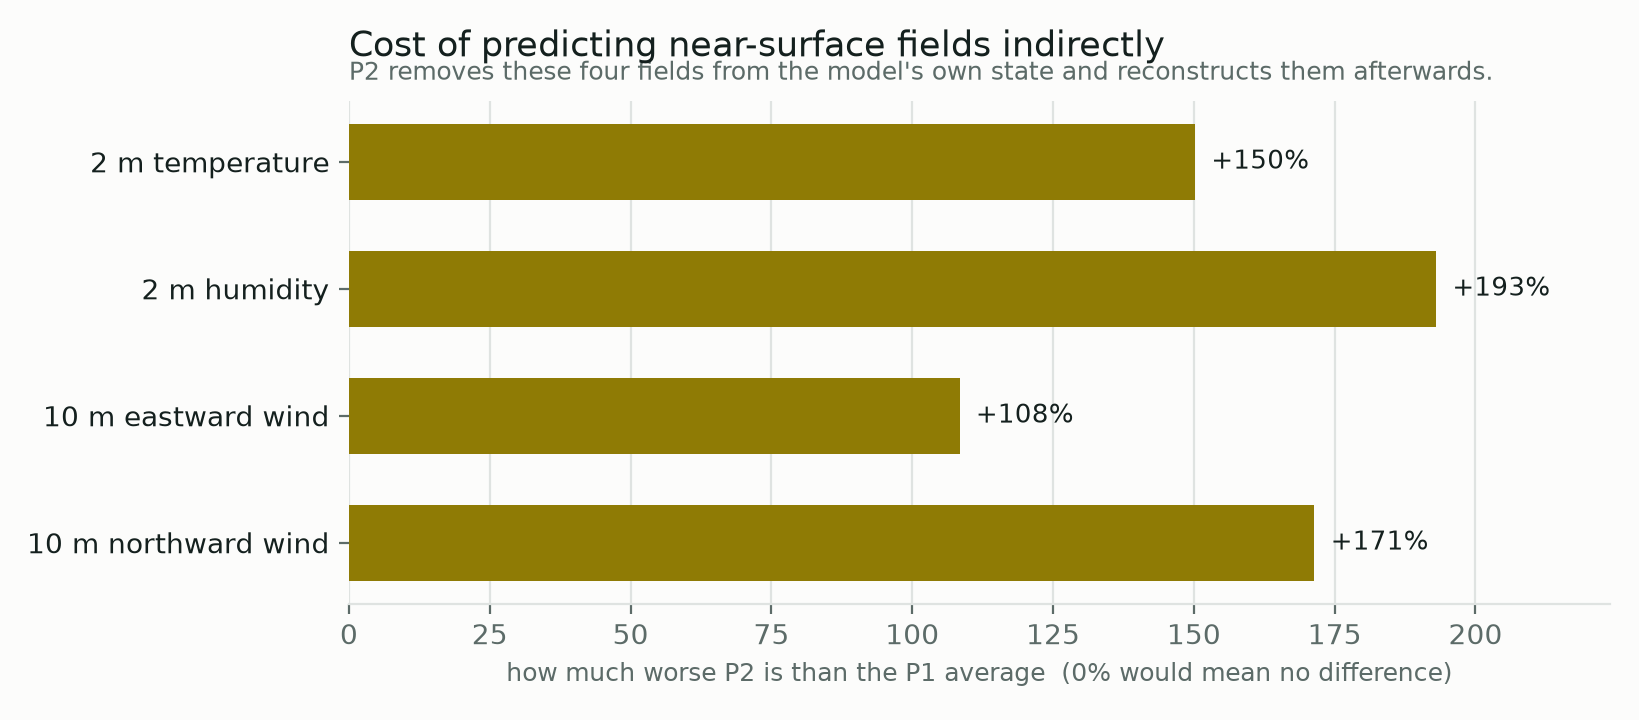
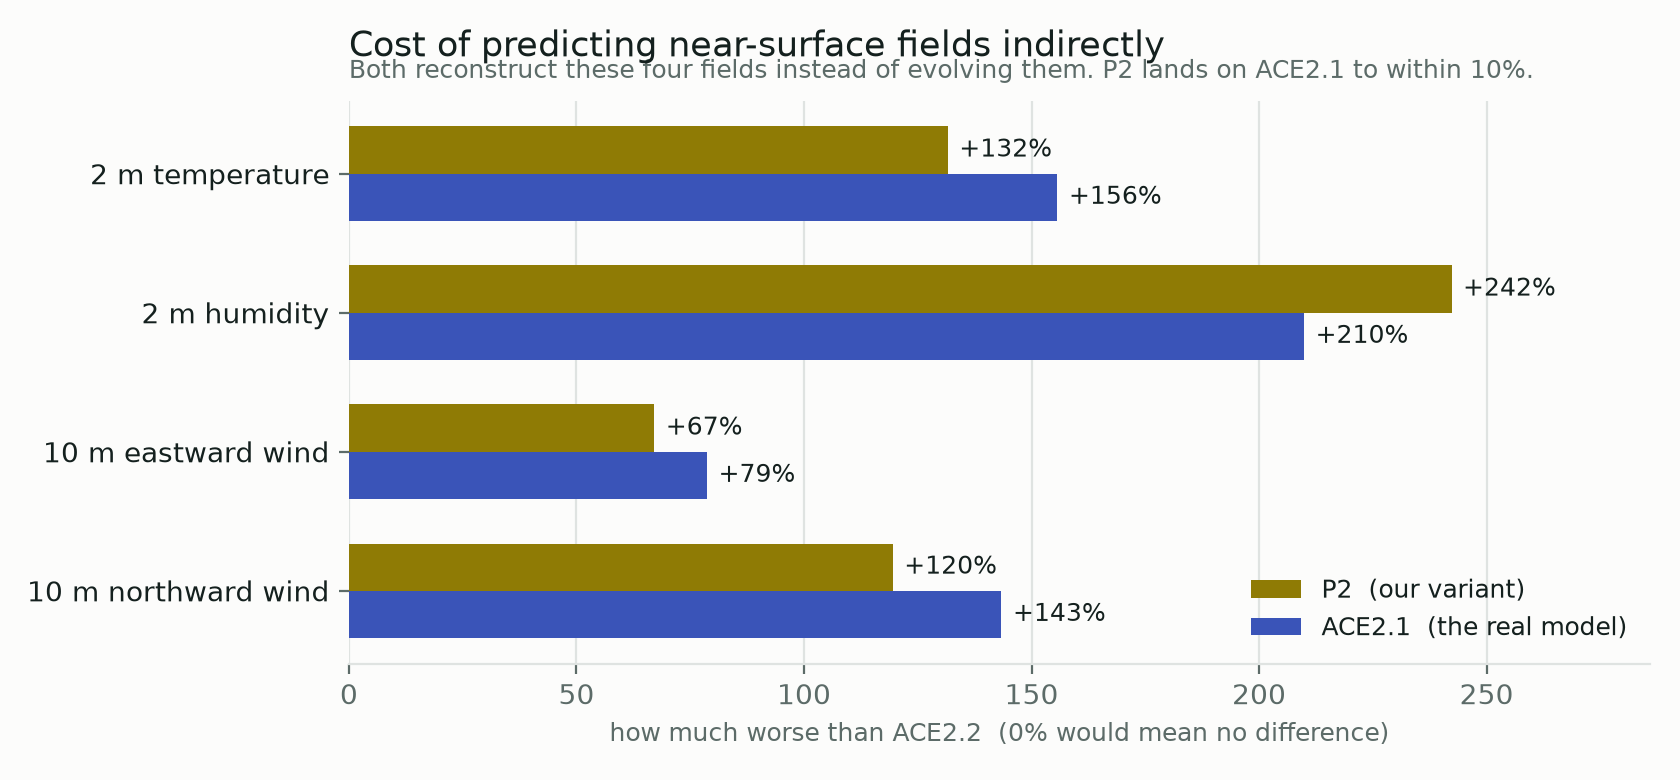
Add the ACE2.1 plev-FT backfill to the findings report
Score the translated ACE2.1 plev-FT checkpoint on the 36-year in-sample
rollout (long36-ace21-plevft, 35 fields) and fold it into the report. It
supersedes the long36-ace21-rs3 entry, which it reproduces exactly on all
28 shared fields.

Extend the trend check to surface_temperature, TMP850, h500 and PRATEsfc,
pulled from the runs' wandb annual artifacts and cached alongside the
existing TMP2m series.

Rescore the P2 comparison against ACE2.2 rather than the P1 seed mean, and
redraw fig3 with ACE2.1 alongside P2.

diff --git a/evaluations/make_findings_figures.py b/evaluations/make_findings_figures.py
@@ -76,21 +76,29 @@ ratio_chart([0.982, 0.956, 0.980, 1.013, 0.953, 0.954], (0.953, 1.013),
             "Error of the annual-mean series, which carries the trend. 25 fields.",
             "median per-field error ratio  (1.0 = same as P1 average)")
 
-# fig 3 -- the near-surface penalty from demoting those fields to a diagnostic decoder
+# fig 3 -- the near-surface penalty, measured two independent ways against ACE2.2:
+# P2 (built to reproduce ACE2.1's treatment) and ACE2.1 itself, from long36-ace21-plevft.
 fields = ["2 m temperature", "2 m humidity", "10 m eastward wind", "10 m northward wind"]
-pct = [150.2, 193.0, 108.4, 171.4]
-fig, ax = plt.subplots(figsize=(8.2, 3.6))
+p2_pct = [131.6, 242.3, 67.1, 119.5]
+a21_pct = [155.7, 209.9, 78.7, 143.4]
+fig, ax = plt.subplots(figsize=(8.4, 3.9))
 y = np.arange(len(fields))[::-1]
-bars = ax.barh(y, pct, height=0.6, color=OLIVE)
-for b in bars: b.set_linewidth(0)
+h = 0.34
+b1 = ax.barh(y + h/2, p2_pct, height=h, color=OLIVE, label="P2  (our variant)")
+b2 = ax.barh(y - h/2, a21_pct, height=h, color=INDIGO, label="ACE2.1  (the real model)")
+for bars in (b1, b2):
+    for b in bars: b.set_linewidth(0)
 ax.set_yticks(y); ax.set_yticklabels(fields, fontsize=10, color=INK)
-ax.set_xlim(0, max(pct) * 1.16)
-for b, v in zip(bars, pct):
-    ax.text(v + max(pct)*0.015, b.get_y()+b.get_height()/2, f"+{v:.0f}%", va="center",
-            fontsize=9.5, color=INK)
-style(ax, "how much worse P2 is than the P1 average  (0% would mean no difference)",
+ax.set_xlim(0, max(max(p2_pct), max(a21_pct)) * 1.18)
+for bars, vals in ((b1, p2_pct), (b2, a21_pct)):
+    for b, v in zip(bars, vals):
+        ax.text(v + max(a21_pct)*0.012, b.get_y()+b.get_height()/2, f"+{v:.0f}%",
+                va="center", fontsize=9, color=INK)
+ax.legend(loc="lower right", frameon=False, fontsize=9)
+style(ax, "how much worse than ACE2.2  (0% would mean no difference)",
       "Cost of predicting near-surface fields indirectly",
-      "P2 removes these four fields from the model's own state and reconstructs them afterwards.")
+      "Both reconstruct these four fields instead of evolving them. P2 lands on ACE2.1 "
+      "to within 10%.")
 fig.tight_layout(); fig.savefig(OUT/"fig3-near-surface-penalty.png", dpi=200); plt.close(fig)
 
 # fig 4 -- seed spread, the two recipes side by side (a null result)

diff --git a/evaluations/ACE2.2-vs-ACE2.1-findings.md b/evaluations/ACE2.2-vs-ACE2.1-findings.md
@@ -37,12 +37,19 @@ recipe, and it turns out to matter here.
 
 **The four models.**
 
-| name | what it is |
-|---|---|
-| **ACE2.1** | the older generation, already submitted to the AIMIP intercomparison |
-| **ACE2.2** | the newer generation; better overall, but differs from ACE2.1 in ~7 ways |
-| **P1** | ACE2.2's recipe with ACE2.1's choice of training years. Three seeds. |
-| **P2** | P1, but with near-surface fields made diagnostic instead of prognostic |
+| name | what it is | changes vs ACE2.2 |
+|---|---|---|
+| **ACE2.1** | the older generation, already submitted to the AIMIP intercomparison | ~7 |
+| **ACE2.2** | the newer generation; better overall, and the model we would otherwise submit. One seed. | — |
+| **P1** | ACE2.2's recipe with ACE2.1's choice of training years. Three seeds. | 1: the training years |
+| **P2** | P1, *plus* near-surface fields made diagnostic instead of prognostic. One seed. | 2: the training years **and** the near-surface treatment |
+
+**The variants form a chain, not a fan:** ACE2.2 -> P1 (change the training years) -> P2 (also
+deprognostify the near-surface fields). P2 was built on P1 rather than directly on ACE2.2 so
+that it would have a three-seed spread to be judged against, since ACE2.2 has only one seed.
+The consequence is that P1, not ACE2.2, is the only clean control for the near-surface
+question -- comparing P2 to ACE2.2 conflates the two changes. Everywhere else in this report
+ACE2.2 is the reference, since it is the model the variants were trying to improve on.
 
 ---
 
@@ -95,9 +102,15 @@ were a real handicap, P1 would sit clearly worse than ACE2.2. It does not — AC
 (0.879–1.088). The same holds for annual-mean error, and for surface temperature, 2 m
 temperature and El Niño response taken individually.
 
-**So we can adopt ACE2.1's training split.** The experiment gets simpler to describe with no
-measured cost. What we *cannot* say is that the span provably has no effect — with three
-seeds the measurement cannot resolve anything smaller than the seed spread.
+**On these two measures we can adopt ACE2.1's training split** — the experiment gets simpler
+to describe at no measured cost in mean climate or annual error. What we *cannot* say is that
+the span provably has no effect: with three seeds the measurement cannot resolve anything
+smaller than the seed spread.
+
+**And the trend is a real exception**, treated in its own section below. There P1's average
+falls between the two generations rather than matching ACE2.2, in the direction predicted for
+a shorter, cooler training period. That is why this conclusion is scoped to the two error
+measures rather than stated as a general verdict on the split.
 
 ### The newer generation is better in-sample, as expected
 
@@ -146,11 +159,38 @@ in-sample counterpart of the forced-response gap seen in the intercomparison, an
 consistent with the leading explanation for it: ACE2.2 has an explicit global-mean pathway
 that ACE2.1 lacks.
 
-**But the trend is strongly seed-dependent.** P1's three seeds span 32% to 46%, a range wider
-than the gap between the two generations, and ACE2.1's 36% sits inside it. So "ACE2.2 beats
-ACE2.1 on trend" is supported, while any comparison between P1 and ACE2.1 on this measure is
-not — one seed of P1 is worse than ACE2.1 and two are better. A trend number from a single
-model should not be read as a property of its recipe.
+**P1 does not inherit all of that advantage.** Averaging its three seeds — 46%, 45% and 32%
+— gives 41%, which falls between ACE2.1's 36% and ACE2.2's 51%. Since the training span is
+the *only* difference between P1 and ACE2.2, the span is the natural explanation, and the
+direction is the one predicted for a shorter, cooler period. Taking the two generations'
+15-point difference as the whole effect, P1 retains about a third of it: (41 − 36) / (51 − 36).
+
+**That fraction is a point estimate and should be read as one.** P1's three seeds span 32% to
+46% — a range wider than the 15-point gap being divided — so the same arithmetic gives two
+thirds if the weakest seed is excluded. Both endpoints are single seeds with no spread of
+their own. The ordering is the finding; the fraction is an illustration of its size, not a
+measurement of it, and resolving it would take several more seeds rather than one.
+
+**The same ordering appears in four other fields**, so it is not an artifact of 2 m
+temperature alone. Repeating the calculation on each field's annual series:
+
+| field | P1 three-seed mean | ACE2.2 | z |
+|---|---|---|---|
+| 2 m temperature | 41% | 51% | +1.28 |
+| surface temperature | 54% | 61% | +1.61 |
+| 850 hPa temperature | 44% | 55% | +1.15 |
+| 500 hPa height | 37% | 44% | +1.01 |
+| precipitation rate | 126% | 140% | +2.02 |
+
+**This is suggestive, not established, and the field count is misleading.** Every P1 seed
+falls below ACE2.2 in every field, which is fifteen comparisons -- but they are not fifteen
+tests. A model's fields are strongly correlated with one another, so a single model that
+draws well scores well on all of them at once; the near-surface section below shows exactly
+that happening in the other direction. The independent dimension is the seed, and there
+ACE2.2 is one draw against P1's three. Under the null that all four are exchangeable, the
+probability that ACE2.2 is the largest is 1/4, and five correlated fields do not compound it.
+ACE2.2's configuration has one seed, so the comparison has no spread on that side at all.
+
 
 **The offsets are small here**, between −0.034 and +0.059 K, where the production simulations
 of the same two generations run +0.11 K and +0.19 K warm. That difference is the
@@ -167,6 +207,20 @@ P2 reconstructs the four near-surface fields afterwards instead of evolving them
 36-year rollout they get 2.1–2.9× worse — far outside anything the seeds produce, so this is
 a real effect and the clearest result in the campaign.
 
+**ACE2.1 itself confirms it independently.** P2 was built to imitate ACE2.1's treatment of
+these fields, and it lands on ACE2.1's actual numbers to within 10%:
+
+| relative to ACE2.2 | 2 m temperature | 2 m humidity | 10 m eastward | 10 m northward |
+|---|---|---|---|---|
+| P2 (our variant) | +132% | +242% | +67% | +120% |
+| ACE2.1 (the real model) | +156% | +210% | +79% | +143% |
+| P1 (prognostic, ACE2.1's span) | -7% | +17% | -20% | -19% |
+
+So the penalty is not an artifact of how P2 was implemented; it is the real generational
+difference, measured two ways that share no code path. The third row is the control: P1 keeps
+these fields prognostic while adopting ACE2.1's training span, and matches or beats ACE2.2 on
+three of the four. The treatment is what matters, not the span.
+
 The penalty grows with rollout length: on a five-year window 2 m temperature was 1.4× worse,
 over 36 years it is 2.5×. That fits the mechanism, since a reconstruction network reading a
 frozen state has no boundary-layer memory to carry forward, so the deficit compounds.
@@ -181,6 +235,32 @@ evolving the field directly.
 The cost is not confined to those four fields. Pressure levels near the ground, which the
 intercomparison also scores, are about 9% worse in P2, while levels above 250 hPa are
 unaffected. The deficit is graded by height.
+
+**P2 is not better on the fields it did not change.** Removing four fields from the model's
+state might have freed capacity for everything else, which would argue for some gentler
+version of the change. Scored against ACE2.2 -- the model both variants modify -- P2 does look
+better on the 30 fields it left alone:
+
+| relative to ACE2.2 | 30 unchanged fields | better | near-surface |
+|---|---|---|---|
+| P1 seed 0 | 1.029 | 12/30 | 0.90x |
+| P1 seed 1 | 0.835 | 22/30 | 0.74x |
+| P1 seed 2 | 1.057 | 13/30 | 1.00x |
+| P2 | 0.887 | 20/30 | 2.26x |
+
+Two things dissolve it. P1 seed 1 reaches 0.835 with near-surface fields fully prognostic, so
+scoring well across nearly every field is a whole-model property the seed alone produces;
+with P2 at one seed its 20-of-30 count is one draw, not 20 tests, and against a seed spread of
+0.121 it sits at z = -0.72. And the surface energy fluxes, where a mechanism would plausibly
+live since the turbulent fluxes read 2 m temperature, humidity and the 10 m winds directly,
+do not support one either: P2 beats ACE2.2 on only 4 of 8, and its apparent flux advantage
+appears only against P1, which is itself worse than ACE2.2 there. P2 was recovering something
+the split change cost, not improving on the model it started from.
+
+The comparison in the figure above uses P1 rather than ACE2.2 as its reference, because P2
+differs from ACE2.2 in two ways -- the training span and the near-surface treatment -- and
+only P1 isolates the second.
+
 
 ### The top of the model drifts, and it is a seed lottery
 
@@ -232,31 +312,42 @@ artifact, not a property of the models.
 
 ## What we decided
 
-**P1 is the configuration to submit.** It adopts ACE2.1's training span, which simplifies the
-description at no measured cost, and keeps near-surface fields prognostic, which the
-measurements show is load-bearing.
+**Near-surface fields stay prognostic.** This is the campaign's one decisive result, and it
+holds whatever else is chosen.
+
+**The training span is unresolved, and P1 is no longer the presumed submission.** P1 adopts
+ACE2.1's span, which costs nothing on mean climate or annual error; but on reproduced
+in-sample trend every P1 seed falls below ACE2.2, at p = 1/4 under exchangeability. That is
+too weak to act on and too consistent to ignore, and it bears on E2, which the intercomparison
+scores. The blocking gap is that ACE2.2 has a single seed, so its 51% may itself be a high
+draw, and nothing in this round measures that.
 
 **P2 is not adopted.** Its near-surface penalty is disqualifying for an intercomparison that
-scores exactly those fields. Two variants might capture whatever benefit removing them has
-without the readout cost — a larger reconstruction network, or making the fields
-diagnostic-but-jointly-trained rather than fitted at the end — but neither fits this
-timeline, and the case for them is weaker than it first appeared, since P2's core turned out
-to be within the seed spread rather than clearly better.
+scores exactly those fields, and the compensating benefit it appeared to bring elsewhere did
+not survive: measured against ACE2.2, P2's unchanged fields land inside the seed spread, and
+P1 seed 1 improves on ACE2.2 by more than P2 does without touching the prognostic set.
 
-**A fourth P1 seed remains open.** The argument for it is protocol symmetry: ACE2.1's
-submitted model was the best of four seeds, and P1's would be the best of three, which confers
-slightly less benefit — about 2% on this metric. It buys no new conclusion.
+**A fourth P1 seed remains open, and would not settle the trend question.** It narrows P1's
+three-seed average only modestly, where the trend result needs several more seeds to resolve;
+and seed selection cannot mitigate the loss in any case, since seeds sample around a mean the
+configuration sets, and choosing the best-trend seed would mean tuning to a scored
+intercomparison metric. The remaining argument is protocol symmetry with ACE2.1's best-of-four,
+worth about 2% on the error measures.
 
 ## What we still do not know
 
-- **The size of the training-span effect.** Smaller than the seed spread; not zero.
+- **Whether the training span costs trend skill, and how much.** P1's average falls between
+  the two generations as predicted, and the ordering repeats across five fields, but ACE2.2 is
+  a single draw and the fields are correlated, so the evidence stands at p = 1/4. This is the
+  campaign's least resolved question, and the one with the clearest next measurement.
 - **Why the top model layer drifts at all.** We established that it is confined to one
   layer, seed-dependent, and present in both recipes, but not what causes it. ACE has a known
   moisture-drift problem there; this quantifies it without explaining it.
-- **Whether removing near-surface fields helps the core at all.** P2's core sits inside P1's
-  seed spread, so the earlier suggestion that those fields "clutter" the model is unsupported
-  by this evidence either way.
-- **How much of any single model's score is its seed.** With ~10% seed spread and one seed
+- **Whether removing near-surface fields helps the core at all.** Measured against ACE2.2,
+  P2's core lands inside the seed spread (z = -0.72), so the earlier suggestion that those
+  fields "clutter" the model is unsupported by this evidence either way. Answering it would
+  need seeds of the deprognostified configuration, which has one.
+- **How much of any single model's score is its seed.** With ~12% seed spread and one seed
   each, ACE2.1's and ACE2.2's published numbers carry an unquantified uncertainty of that size.
 
 ---
@@ -276,18 +367,28 @@ numerically tiny.
 
 | model | run | stage | fields |
 |---|---|---|---|
-| ACE2.1 RS3 | `long36-ace21-rs3` | base | 28 |
+| ACE2.1 RS3 | `long36-ace21-plevft` | plev FT | 35 |
 | ACE2.2 | `long36-ace22-stage2` | 2 | 34 |
 | P1 seeds 0/1/2 | `long36-p1-rs0/1/2` | 2 | 34 |
 | P2 | `long36-p2-rs0` | 2 | 30 |
 | P2 | `long36-p2-stage3` | 3 | 34 |
 
+ACE2.1's run uses the pressure-level fine-tuned checkpoint, translated to the current config
+schema; it is the submitted ACE2.1 model and the only one carrying near-surface fields. On all
+28 fields it shares with the earlier `long36-ace21-rs3` backfill it reproduces that run exactly
+(ratio 1.0000, range 1.000-1.000), which both validates the translation and confirms ACE2.1 is
+deterministic -- noise conditioning is an ACE2.2 feature.
+
 Aggregates use the fields common to all models compared, minus the top model layer, scored as
-median per-field ratios. Near-surface figures come from the 36-year rollout; the five-year
+median per-field ratios. They also exclude the four near-surface fields **by choice**, not for
+lack of data: those carry the campaign's largest effect and are reported on their own above, so
+folding them into a cross-model average would double-count the same finding. Near-surface figures come from the 36-year rollout; the five-year
 figure quoted for contrast is the 2009-2014 inline evaluation at stage 3, restricted to epochs
 >= 8 where P2's reconstruction network has converged.
 
-**Two known contaminants, neither re-run.** These rollouts are unseeded --
+**Two known contaminants, neither re-run.** Both apply to ACE2.2, P1 and P2 only; ACE2.1 is
+deterministic, as its two independent backfills reproducing each other exactly demonstrate.
+These rollouts are unseeded --
 `InferenceEvaluatorConfig` has a `seed` field the configs do not set -- so each draws its own
 noise from these noise-conditioned models. Comparing P2's stage-2 and stage-3 runs on the 30
 fields they share, which should differ only in the decoder, gives a 2.7% median difference.
@@ -325,8 +426,8 @@ earlier headline that ACE2.2 was 40% worse than ACE2.1, and an apparent core adv
 
 | # | hypothesis | explains | status / evidence |
 |---|---|---|---|
-| 1 | `global_mean_removal` gives ACE2.2 a global-mean pathway ACE2.1 lacks | E5 forced response, E2 trends, part of E1 on the warm test decade | supported: ACE2.2 reproduces 50% of ERA5's observed warming (+0.316 of +0.625 K, 2015–2024 vs 1979–2008) and warms +2.00 K under +4 K SST; ACE2.1 reproduces 31% of observed warming but only +0.275 K under +4 K, i.e. it responds to patterned warming and barely at all to a uniform shift. Both models reproduce the same fraction of observed warming inside and outside their training spans. ENSO's global-mean temperature signal is transmitted in full (no uniform component in the E3 coefficient error), so the shortfall is specific to low-frequency shifts. **Confounded with the longer training period** (1979–2013 vs 1979–2008). The size of that confound is not established: a regression-attenuation estimate gave ~7 percentage points, but attenuation describes noise in the *predictor*, and here time and the prescribed SSTs are exact, so the framing does not apply. Only the sign is robust — a shorter, cooler span should not *increase* the fraction reproduced. **Measured by P1, and the confound is real for trend:** on mean climate and annual error the span costs nothing, but on reproduced in-sample trend P1 keeps only ~1/3 of ACE2.2's advantage over ACE2.1 (41% against 51% and 36%). Predicted direction, magnitude unresolved at n=3 (ACE2.2 is 1.2 sd above P1's mean, and is itself one seed). So part of what this hypothesis attributes to `global_mean_removal` may belong to the training span |
-| 2 | Multi-step fine-tuning + larger trunk improved the core; near-surface fields additionally gained from becoming prognostic/jointly trained | E1: head-vs-head plev fields −10–18% (core share); near-surface fields −25–31% | **confirmed for the near-surface half** by the P2 variant (see below): reverting those fields to stage-3 secondary diagnostics costs 34–94% on them. FT vs architecture still not separated for the core half |
+| 1 | `global_mean_removal` gives ACE2.2 a global-mean pathway ACE2.1 lacks | E5 forced response, E2 trends, part of E1 on the warm test decade | supported: ACE2.2 reproduces 50% of ERA5's observed warming (+0.316 of +0.625 K, 2015–2024 vs 1979–2008) and warms +2.00 K under +4 K SST; ACE2.1 reproduces 31% of observed warming but only +0.275 K under +4 K, i.e. it responds to patterned warming and barely at all to a uniform shift. Both models reproduce the same fraction of observed warming inside and outside their training spans. ENSO's global-mean temperature signal is transmitted in full (no uniform component in the E3 coefficient error), so the shortfall is specific to low-frequency shifts. **Confounded with the longer training period** (1979–2013 vs 1979–2008). The size of that confound is not established: a regression-attenuation estimate gave ~7 percentage points, but attenuation describes noise in the *predictor*, and here time and the prescribed SSTs are exact, so the framing does not apply. Only the sign is robust — a shorter, cooler span should not *increase* the fraction reproduced. **Measured by P1:** on mean climate and annual error the span costs nothing. On reproduced in-sample trend P1's three-seed mean (41%) falls between ACE2.1 (36%) and ACE2.2 (51%) — the predicted direction, retaining roughly a third of the generational difference as a point estimate, but with P1's seeds spanning 32-46% the size is not resolved at n=3. So part of what this hypothesis attributes to `global_mean_removal` may belong to the training span; see the trend section |
+| 2 | Multi-step fine-tuning + larger trunk improved the core; near-surface fields additionally gained from becoming prognostic/jointly trained | E1: head-vs-head plev fields −10–18% (core share); near-surface fields −25–31% | **confirmed for the near-surface half**, twice over: reverting those fields to stage-3 secondary diagnostics (P2) costs 67–242% on the 36-year rollout, and ACE2.1's own plev-FT checkpoint carries the same penalty (79–210%) within 10% of P2's. P1 holds those fields prognostic on ACE2.1's span and matches ACE2.2, so the gain is the treatment and not the span. FT vs architecture still not separated for the core half |
 | 3 | CRPS + noise conditioning preserves variance that MSE damps | E4 daily variability (tas −19%, pr −9%) | plausible, untested |
 | 4 | ACE2.1's in-sample E3 temperature advantage is deterministic reproduction of the realized training-period responses (shared sampling noise with the ERA5 reference), plus a best-of-4-seed winner's curse | E3 tas/ts regression | supported: confined to 1979–2014 (parity on 2015–2024); entirely in the pattern component; magnitude tracks boundary-forced reproducibility (ts > tas > ta > hus > ps > winds); winds/pr improve in all periods |
 | 5 | Multi-step fine-tuning damps the low-frequency global-mean mode, buying rollout stability at some cost in forced response | the ~50% shortfall in both E5 and E2 metrics | open. The stage-1 probe has a *larger* +4 K response (+2.68 vs +2.00 K) but an incoherent historical trend and a detrended interannual global-mean tas spread of 0.455 K against ERA5's 0.122 K, so what fine-tuning removes may be undamped variance rather than usable signal. The final model ends up under-dispersed (0.054 K), consistent with over-damping. Discriminator, free from the campaign: across P1's three seeds a real trade predicts the lowest-bias seed has the weakest +4 K response; noise suppression predicts no relation |
